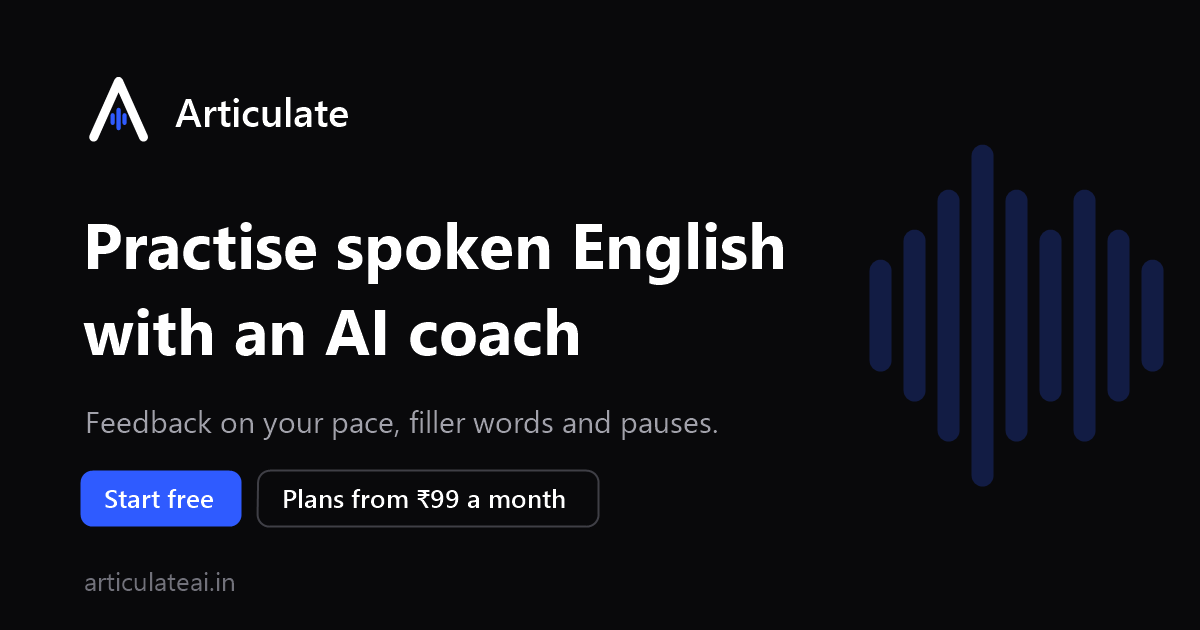
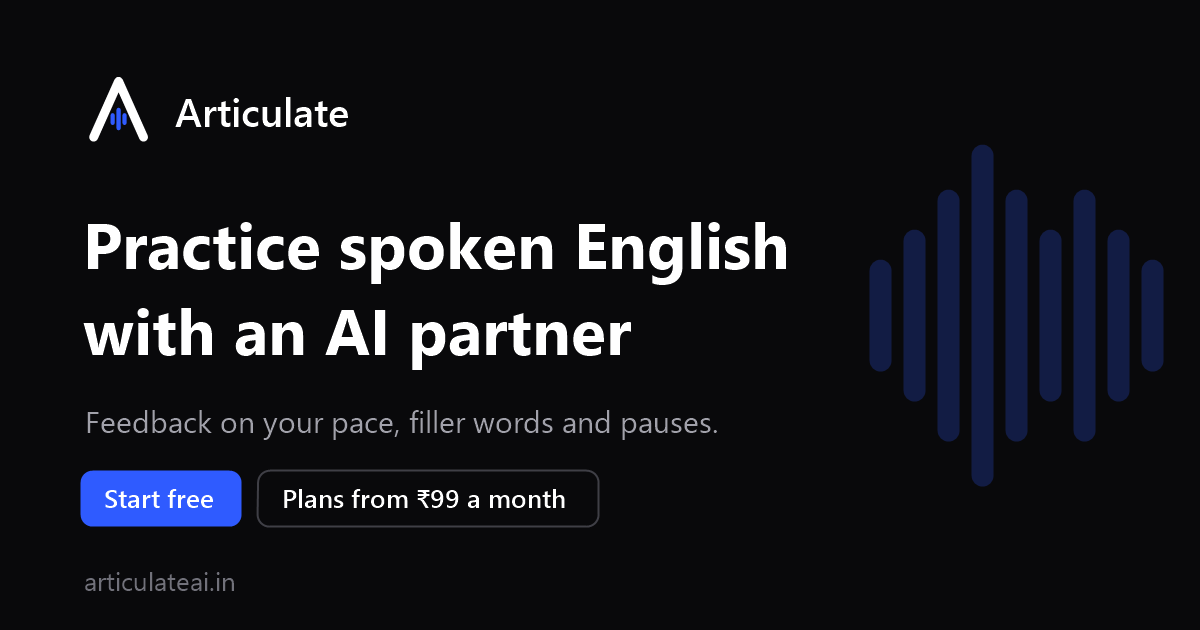
Call the AI a partner, not a coach; use 'practice' spelling everywhere
Text-only changes across landing, SEO tags, FAQ, legal pages, auth screens,
practice and report screens, plus a refreshed share image.

Changed region(s): [[0.2158, 0.3619, 0.6475, 0.4524], [0.3392, 0.4825, 0.5242, 0.6032]]

diff --git a/index.html b/index.html
@@ -34,27 +34,27 @@
     <link rel="preconnect" href="https://fonts.googleapis.com" />
     <link rel="preconnect" href="https://fonts.gstatic.com" crossorigin />
     <link href="https://fonts.googleapis.com/css2?family=DM+Sans:ital,opsz,wght@0,9..40,400;0,9..40,500;0,9..40,600;0,9..40,700&family=Inter:wght@400;500;600;700&family=Inter+Tight:wght@600&display=swap" rel="stylesheet" />
-    <title>Articulate – Practice Spoken English with an AI Coach</title>
-    <meta name="description" content="Practice spoken English out loud with an AI coach and get instant feedback on pace, filler words and pauses. Made for learners across India. Start free, plans from ₹99 a month." />
-    <meta name="keywords" content="spoken English practice, English speaking app, AI speaking coach, improve English speaking, English conversation practice, interview preparation, public speaking practice, communication skills India" />
+    <title>Articulate – Practice Spoken English with an AI Partner</title>
+    <meta name="description" content="Practice spoken English out loud with an AI partner and get instant feedback on pace, filler words and pauses. Made for learners across India. Start free, plans from ₹99 a month." />
+    <meta name="keywords" content="spoken English practice, English speaking app, AI speaking partner, English speaking partner, improve English speaking, English conversation practice, interview preparation, public speaking practice, communication skills India" />
     <meta name="robots" content="index, follow" />
     <meta name="theme-color" content="#09090B" />
     <link rel="canonical" href="https://articulateai.in/" />
     <meta property="og:type" content="website" />
     <meta property="og:site_name" content="Articulate" />
     <meta property="og:locale" content="en_IN" />
-    <meta property="og:title" content="Articulate – Practice Spoken English with an AI Coach" />
-    <meta property="og:description" content="Practice spoken English out loud with an AI coach and get instant feedback on pace, filler words and pauses. Made for learners across India. Start free, plans from ₹99 a month." />
+    <meta property="og:title" content="Articulate – Practice Spoken English with an AI Partner" />
+    <meta property="og:description" content="Practice spoken English out loud with an AI partner and get instant feedback on pace, filler words and pauses. Made for learners across India. Start free, plans from ₹99 a month." />
     <meta property="og:url" content="https://articulateai.in/" />
-    <meta property="og:image" content="https://articulateai.in/og-image.png" />
+    <meta property="og:image" content="https://articulateai.in/og-image.png?v=2" />
     <meta property="og:image:width" content="1200" />
     <meta property="og:image:height" content="630" />
-    <meta property="og:image:alt" content="Articulate – Practice Spoken English with an AI Coach" />
+    <meta property="og:image:alt" content="Articulate – Practice Spoken English with an AI Partner" />
     <meta name="twitter:card" content="summary_large_image" />
-    <meta name="twitter:title" content="Articulate – Practice Spoken English with an AI Coach" />
-    <meta name="twitter:description" content="Speak out loud with an AI coach and get feedback on pace, filler words and pauses. Start free." />
-    <meta name="twitter:image" content="https://articulateai.in/og-image.png" />
-    <script type="application/ld+json">{"@context":"https://schema.org","@graph":[{"@type":"Organization","@id":"https://articulateai.in/#org","name":"Articulate","url":"https://articulateai.in/","logo":"https://articulateai.in/favicon.svg","contactPoint":{"@type":"ContactPoint","telephone":"+91-7620722083","contactType":"customer support","areaServed":"IN","availableLanguage":["English","Hindi"]}},{"@type":"WebSite","@id":"https://articulateai.in/#site","url":"https://articulateai.in/","name":"Articulate","inLanguage":"en-IN","publisher":{"@id":"https://articulateai.in/#org"}},{"@type":"WebApplication","name":"Articulate","url":"https://articulateai.in/","applicationCategory":"EducationalApplication","operatingSystem":"Web, Android","description":"AI speaking coach to practise spoken English out loud and get feedback on pace, filler words and pauses.","offers":[{"@type":"Offer","name":"Free","price":"0","priceCurrency":"INR"},{"@type":"Offer","name":"Builder","price":"99","priceCurrency":"INR","description":"600 practice minutes a month, questions on screen"},{"@type":"Offer","name":"Performer","price":"249","priceCurrency":"INR","description":"600 practice minutes a month with the AI coach talking out loud"}]},{"@type":"FAQPage","mainEntity":[{"@type":"Question","name":"What is Articulate?","acceptedAnswer":{"@type":"Answer","text":"Articulate is an AI speaking coach. You practise spoken English out loud, an AI coach asks you follow-up questions, and you get feedback on your speaking pace, filler words and pauses after every session."}},{"@type":"Question","name":"Is Articulate free?","acceptedAnswer":{"@type":"Answer","text":"Yes. You can start free with practice minutes every month. Paid plans start at ₹99 a month for 600 practice minutes."}},{"@type":"Question","name":"Do I need good English to start?","acceptedAnswer":{"@type":"Answer","text":"No. Articulate is made for beginners too. Questions use simple, everyday English, and you can choose your speaking level."}},{"@type":"Question","name":"Does it work on a phone?","acceptedAnswer":{"@type":"Answer","text":"Yes. Articulate works in your phone browser on Android and iPhone, and on computers. All you need is a microphone and an internet connection."}},{"@type":"Question","name":"How is my voice data used?","acceptedAnswer":{"@type":"Answer","text":"Your voice is turned into text so the coach can reply and give feedback. Audio is not stored on our servers after transcription, and we never sell your data."}},{"@type":"Question","name":"What is the difference between the ₹99 and ₹249 plans?","acceptedAnswer":{"@type":"Answer","text":"Both give 600 practice minutes a month. In the ₹99 plan the coach's questions appear on screen. In the ₹249 plan the AI coach also talks with you out loud, like a real conversation partner."}}]}]}</script>
+    <meta name="twitter:title" content="Articulate – Practice Spoken English with an AI Partner" />
+    <meta name="twitter:description" content="Speak out loud with an AI partner and get feedback on pace, filler words and pauses. Start free." />
+    <meta name="twitter:image" content="https://articulateai.in/og-image.png?v=2" />
+    <script type="application/ld+json">{"@context":"https://schema.org","@graph":[{"@type":"Organization","@id":"https://articulateai.in/#org","name":"Articulate","url":"https://articulateai.in/","logo":"https://articulateai.in/favicon.svg","contactPoint":{"@type":"ContactPoint","telephone":"+91-7620722083","contactType":"customer support","areaServed":"IN","availableLanguage":["English","Hindi"]}},{"@type":"WebSite","@id":"https://articulateai.in/#site","url":"https://articulateai.in/","name":"Articulate","inLanguage":"en-IN","publisher":{"@id":"https://articulateai.in/#org"}},{"@type":"WebApplication","name":"Articulate","url":"https://articulateai.in/","applicationCategory":"EducationalApplication","operatingSystem":"Web, Android","description":"AI speaking partner to practice spoken English out loud and get feedback on pace, filler words and pauses.","offers":[{"@type":"Offer","name":"Free","price":"0","priceCurrency":"INR"},{"@type":"Offer","name":"Builder","price":"99","priceCurrency":"INR","description":"600 practice minutes a month, questions on screen"},{"@type":"Offer","name":"Performer","price":"249","priceCurrency":"INR","description":"600 practice minutes a month with the AI partner talking out loud"}]},{"@type":"FAQPage","mainEntity":[{"@type":"Question","name":"What is Articulate?","acceptedAnswer":{"@type":"Answer","text":"Articulate is an AI speaking partner. You practice spoken English out loud, an AI partner asks you short questions to keep you talking, and you get feedback on your speaking pace, filler words and pauses after every session."}},{"@type":"Question","name":"Is Articulate free?","acceptedAnswer":{"@type":"Answer","text":"Yes. You can start free with practice minutes every month. Paid plans start at ₹99 a month for 600 practice minutes."}},{"@type":"Question","name":"Do I need good English to start?","acceptedAnswer":{"@type":"Answer","text":"No. Articulate is made for beginners too. Questions use simple, everyday English, and you can choose your speaking level."}},{"@type":"Question","name":"Does it work on a phone?","acceptedAnswer":{"@type":"Answer","text":"Yes. Articulate works in your phone browser on Android and iPhone, and on computers. All you need is a microphone and an internet connection."}},{"@type":"Question","name":"How is my voice data used?","acceptedAnswer":{"@type":"Answer","text":"Your voice is turned into text so your AI partner can reply and give feedback. Audio is not stored on our servers after transcription, and we never sell your data."}},{"@type":"Question","name":"What is the difference between the ₹99 and ₹249 plans?","acceptedAnswer":{"@type":"Answer","text":"Both give 600 practice minutes a month. In the ₹99 plan your AI partner's questions appear on screen. In the ₹249 plan your AI partner also talks with you out loud, like a real conversation."}}]}]}</script>
     <script>
       try {
         var t = localStorage.getItem('articulate-theme') || 'dark';
@@ -65,8 +65,8 @@
   <body>
     <div id="root"></div>
     <noscript>
-      <h1>Articulate – Practice Spoken English with an AI Coach</h1>
-      <p>Articulate is an AI speaking coach for learners across India. Speak out loud, answer follow-up questions from an AI coach, and get feedback on your pace, filler words and pauses. Start free; plans from ₹99 a month. Please enable JavaScript to use Articulate.</p>
+      <h1>Articulate – Practice Spoken English with an AI Partner</h1>
+      <p>Articulate is an AI speaking partner for learners across India. Speak out loud, answer short questions from an AI partner, and get feedback on your pace, filler words and pauses. Start free; plans from ₹99 a month. Please enable JavaScript to use Articulate.</p>
     </noscript>
     <script src="https://checkout.razorpay.com/v1/checkout.js"></script>
     <script type="module" src="/src/main.jsx"></script>

diff --git a/src/pages/Legal.jsx b/src/pages/Legal.jsx
@@ -58,7 +58,7 @@ function Terms() {
       <h2>2. What the Service does</h2>
       <p>
         Articulate is an AI-powered speaking practice tool. You speak answers out loud; the Service turns your speech into
-        text, an AI coach replies with questions, and you receive feedback such as speaking pace, filler words and pauses.
+        text, an AI partner replies with short questions, and you receive feedback such as speaking pace, filler words and pauses.
         Feedback is generated automatically by software and may sometimes be inaccurate or incomplete. Articulate is a
         practice aid; it is not a certified course, language test, professional advice or a guarantee of any result in an
         exam, interview or job.
@@ -103,7 +103,7 @@ function Terms() {
 
       <h2>7. AI-generated content</h2>
       <p>
-        Coach questions, suggestions, "better version" rewrites and grammar tips are generated by AI. Use your own judgement
+        AI partner questions, suggestions, "better version" rewrites and grammar tips are generated by AI. Use your own judgement
         before relying on them. We are not responsible for decisions you make based on AI-generated content.
       </p>
 
@@ -175,8 +175,8 @@ function Privacy() {
       <ul>
         <li><strong>Account details:</strong> username, email address and password (stored only in encrypted, hashed form). If you sign in with Google, we receive your name and email address from Google.</li>
         <li><strong>Practice profile:</strong> your profession, goal, speaking level, interests and optional bio.</li>
-        <li><strong>Voice and transcripts:</strong> your spoken answers are sent for transcription. We keep the text transcripts, the AI coach's replies and the feedback for your session reports. The audio itself is not stored on our servers after transcription.</li>
-        <li><strong>Practice activity:</strong> sessions, minutes used, streaks, scores and topics practised.</li>
+        <li><strong>Voice and transcripts:</strong> your spoken answers are sent for transcription. We keep the text transcripts, the AI partner's replies and the feedback for your session reports. The audio itself is not stored on our servers after transcription.</li>
+        <li><strong>Practice activity:</strong> sessions, minutes used, streaks, scores and topics practiced.</li>
         <li><strong>Payments:</strong> plan purchased, amount, date and payment or order IDs. Card, UPI and bank details are entered directly with Razorpay or Google Play; we never see or store them.</li>
         <li><strong>Device and usage data:</strong> browser and device type, pages visited, approximate location from IP address and how you use the site, collected through cookies and similar technologies.</li>
       </ul>
@@ -199,7 +199,7 @@ function Privacy() {
       <h2>3. Who we share it with</h2>
       <p>We do not sell your personal data. We share it only with service providers who process it for us under contract:</p>
       <ul>
-        <li><strong>Groq</strong>: speech-to-text, AI coach replies and the AI voice.</li>
+        <li><strong>Groq</strong>: speech-to-text, AI partner replies and the AI voice.</li>
         <li><strong>Razorpay</strong> and <strong>Google Play</strong>: payments.</li>
         <li><strong>Google</strong>: Google Sign-In, Google Analytics (website usage statistics) and Google Fonts.</li>
         <li><strong>Microsoft Clarity</strong>: anonymised usage insights such as heatmaps and session replays, used to improve the design.</li>

diff --git a/src/pages/VoiceChat.jsx b/src/pages/VoiceChat.jsx
@@ -696,7 +696,7 @@ export default function VoiceChat() {
   const statusLabel = {
     paused: 'Paused',
     listening: 'Listening',
-    speaking: 'Coach is speaking',
+    speaking: 'Your partner is speaking',
     thinking: isBootstrapping ? 'Preparing' : 'Thinking',
     ready: 'Your turn',
   }[stageState];
@@ -705,14 +705,14 @@ export default function VoiceChat() {
   const hint = isPaused
     ? 'Paused. Take your time to think, then tap Continue to pick up where you left off.'
     : isUserSpeaking
-      ? 'Speak naturally. After 4 seconds of silence the coach replies. Need time to think? Tap Pause.'
+      ? 'Speak naturally. After 4 seconds of silence your partner replies. Need time to think? Tap Pause.'
       : isAiSpeaking
-        ? 'Listen to the question. Your mic turns on automatically when the coach finishes.'
+        ? 'Listen to the question. Your mic turns on automatically when your partner finishes.'
         : isProcessing
           ? 'Getting a reply…'
           : isBootstrapping
             ? 'Preparing your opening question and voice. This usually takes a few seconds.'
-            : 'Tap Start speaking when you are ready. The mic also starts on its own after the coach asks.';
+            : 'Tap Start speaking when you are ready. The mic also starts on its own after your partner asks.';
 
   return (
     <div className="agent-layout">
@@ -730,7 +730,7 @@ export default function VoiceChat() {
 
         <div className="agent-stage-body">
           <div>
-            <div className="agent-prompt-label">{isBootstrapping ? 'Getting ready' : 'Your coach'}</div>
+            <div className="agent-prompt-label">{isBootstrapping ? 'Getting ready' : 'Your partner'}</div>
             <p
               key={isBootstrapping ? 'bootstrap' : isProcessing ? 'processing' : lastAssistantMessage}
               className={`agent-prompt ${isBootstrapping || isProcessing ? 'is-muted' : ''}`}
@@ -800,7 +800,7 @@ export default function VoiceChat() {
             {transcriptLines.length === 0 && <p className="ui-card-sub">Messages will appear here.</p>}
             {transcriptLines.map((line, i) => (
               <div key={i} className={`agent-msg ${line.role === 'user' ? 'agent-msg-user' : 'agent-msg-ai'}`}>
-                <span className="agent-msg-who">{line.role === 'user' ? 'You' : 'Coach'}</span>
+                <span className="agent-msg-who">{line.role === 'user' ? 'You' : 'Partner'}</span>
                 {line.content === '(your speech)' ? <em>Spoken reply</em> : line.content}
               </div>
             ))}

diff --git a/src/components/RouteMeta.jsx b/src/components/RouteMeta.jsx
@@ -2,14 +2,14 @@ import { useEffect } from 'react';
 import { useLocation } from 'react-router-dom';
 
 const SITE = 'https://articulateai.in';
-const DEFAULT_TITLE = 'Articulate – Practice Spoken English with an AI Coach';
-const DEFAULT_DESC = 'Practice spoken English out loud with an AI coach and get instant feedback on pace, filler words and pauses. Made for learners across India. Start free, plans from ₹99 a month.';
+const DEFAULT_TITLE = 'Articulate – Practice Spoken English with an AI Partner';
+const DEFAULT_DESC = 'Practice spoken English out loud with an AI partner and get instant feedback on pace, filler words and pauses. Made for learners across India. Start free, plans from ₹99 a month.';
 
 /* Title and description per public page (what search engines show). App pages get a plain title. */
 const META = {
   '/': [DEFAULT_TITLE, DEFAULT_DESC],
-  '/login': ['Log in – Articulate', 'Log in to Articulate and continue practising spoken English with your AI coach.'],
-  '/signup': ['Create a free account – Articulate', 'Sign up free and start practising spoken English with an AI speaking coach. Get feedback on pace, filler words and pauses.'],
+  '/login': ['Log in – Articulate', 'Log in to Articulate and continue practicing spoken English with your AI partner.'],
+  '/signup': ['Create a free account – Articulate', 'Sign up free and start practicing spoken English with an AI speaking partner. Get feedback on pace, filler words and pauses.'],
   '/terms': ['Terms and Conditions – Articulate', 'Terms and Conditions for using Articulate, the AI spoken English practice app, under Indian law.'],
   '/privacy': ['Privacy Policy – Articulate', 'How Articulate collects, uses and protects your personal data under the Digital Personal Data Protection Act, 2023.'],
   '/refund-policy': ['Refund and Cancellation Policy – Articulate', 'How plans, cancellations and refunds work for Articulate purchases.'],

diff --git a/src/pages/Landing.jsx b/src/pages/Landing.jsx
@@ -12,7 +12,7 @@ import FAQ from '../landingFaq.json';
 
 const steps = [
   { title: 'Pick a topic', desc: 'Choose from prompts matched to your goal: interviews, presentations, everyday conversation.' },
-  { title: 'Talk with your coach', desc: 'Answer out loud. The AI listens, asks follow-ups and keeps the conversation going.' },
+  { title: 'Talk with your partner', desc: 'Answer out loud. The AI listens, asks follow-ups and keeps the conversation going.' },
   { title: 'Read your report', desc: 'See your pace, filler words and pauses, with specific tips for your next session.' },
 ];
 
@@ -110,8 +110,8 @@ export default function Landing() {
         <section className="lp-hero">
           <div className="lp-container lp-hero-grid">
             <div className="lp-hero-copy">
-              <div className="lp-kicker">AI spoken English coach · Made for India</div>
-              <h1 className="lp-h1">Practice spoken English out loud with an AI coach.</h1>
+              <div className="lp-kicker">AI spoken English partner · Made for India</div>
+              <h1 className="lp-h1">Practice spoken English out loud with an AI partner.</h1>
               <p className="lp-lead">
                 Speak clearly and confidently, one short session at a time. Answer real questions out loud, then see
                 your pace, filler words and simple tips, so you are ready for interviews, college and work.

diff --git a/src/pages/ConversationDetail.jsx b/src/pages/ConversationDetail.jsx
@@ -141,7 +141,7 @@ export default function ConversationDetail() {
 
       {conv.feedback_summary && (
         <section className="ui-card rep-feedback">
-          <div className="rep-feedback-head"><SparkIcon /> Coach feedback</div>
+          <div className="rep-feedback-head"><SparkIcon /> Feedback</div>
           <p>{conv.feedback_summary}</p>
         </section>
       )}
@@ -224,7 +224,7 @@ export default function ConversationDetail() {
           <div className="ui-card rep-transcript">
             {conv.messages.map((m) => (
               <div key={m.id} className={`rep-msg ${m.role === 'user' ? 'is-user' : 'is-ai'}`}>
-                <div className="rep-msg-who">{m.role === 'user' ? 'You' : 'Coach'}</div>
+                <div className="rep-msg-who">{m.role === 'user' ? 'You' : 'Partner'}</div>
                 <p className="rep-msg-text">{m.content}</p>
                 {m.role === 'user' && (
                   <div className="rep-msg-actions">

diff --git a/src/components/AuthLayout.jsx b/src/components/AuthLayout.jsx
@@ -20,7 +20,7 @@ export default function AuthLayout({ title, subtitle, children, footer }) {
         <div className="auth-aside-body">
           <h2 className="auth-aside-title">Speak clearly and confidently, one short session at a time.</h2>
           <ul className="auth-aside-points">
-            <li><CheckIcon /> Practice real conversations with an AI coach</li>
+            <li><CheckIcon /> Practice real conversations with an AI partner</li>
             <li><CheckIcon /> See your pace, filler words and pauses</li>
             <li><CheckIcon /> Get specific tips after every session</li>
           </ul>

diff --git a/src/pages/Subscriptions.jsx b/src/pages/Subscriptions.jsx
@@ -69,7 +69,7 @@ export default function Subscriptions() {
               </div>
               <div className="auth-brand-text">
                 <span className="auth-brand-name">articulate.ai</span>
-                <span className="auth-brand-sub">Voice communication coach</span>
+                <span className="auth-brand-sub">Voice communication partner</span>
               </div>
             </div>
             <h1 className="auth-card-title">Choose your plan</h1>
